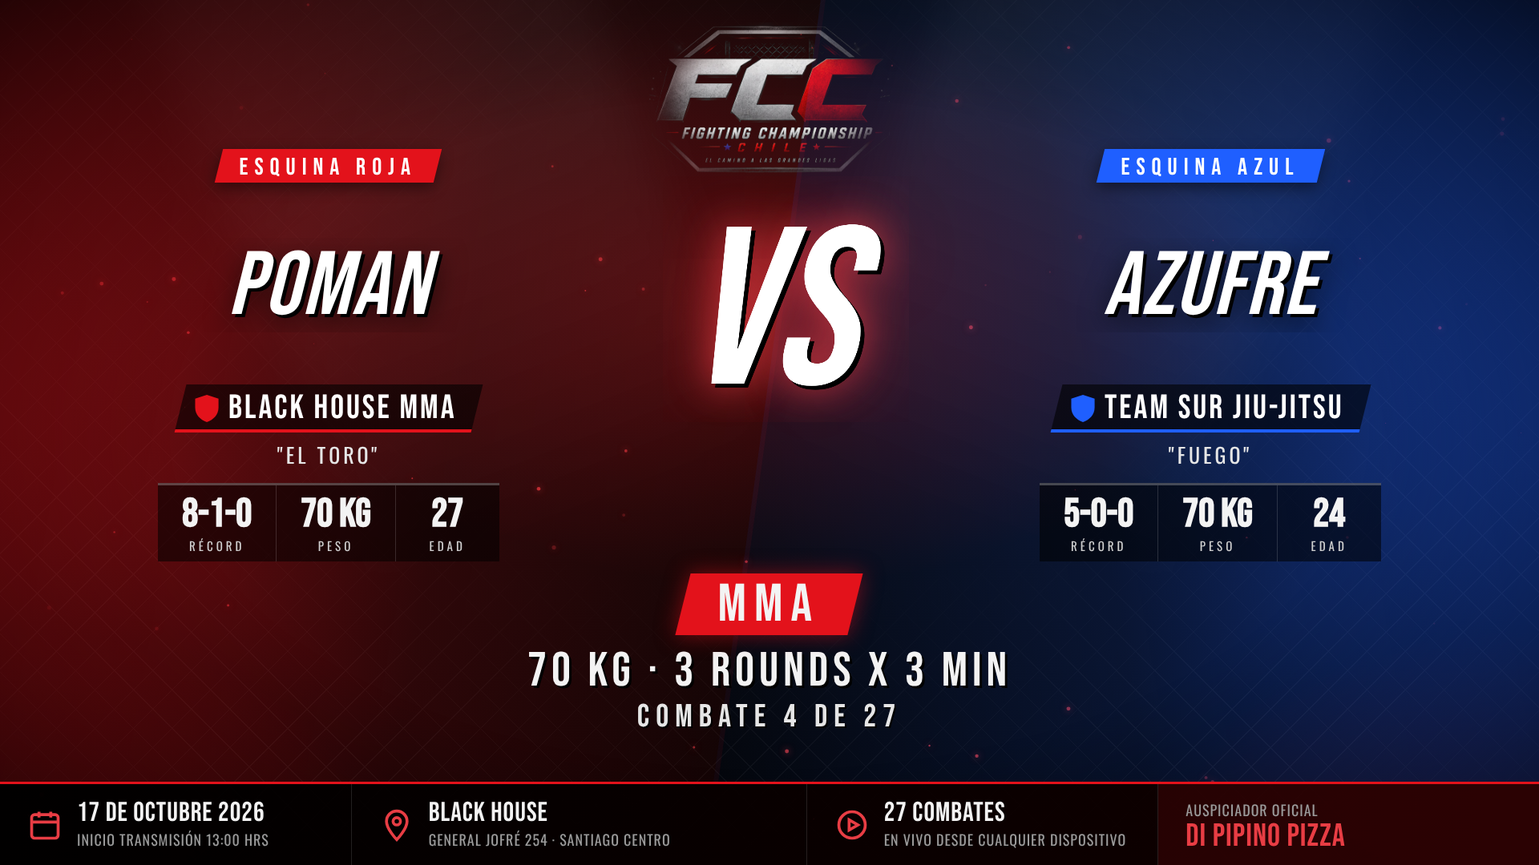
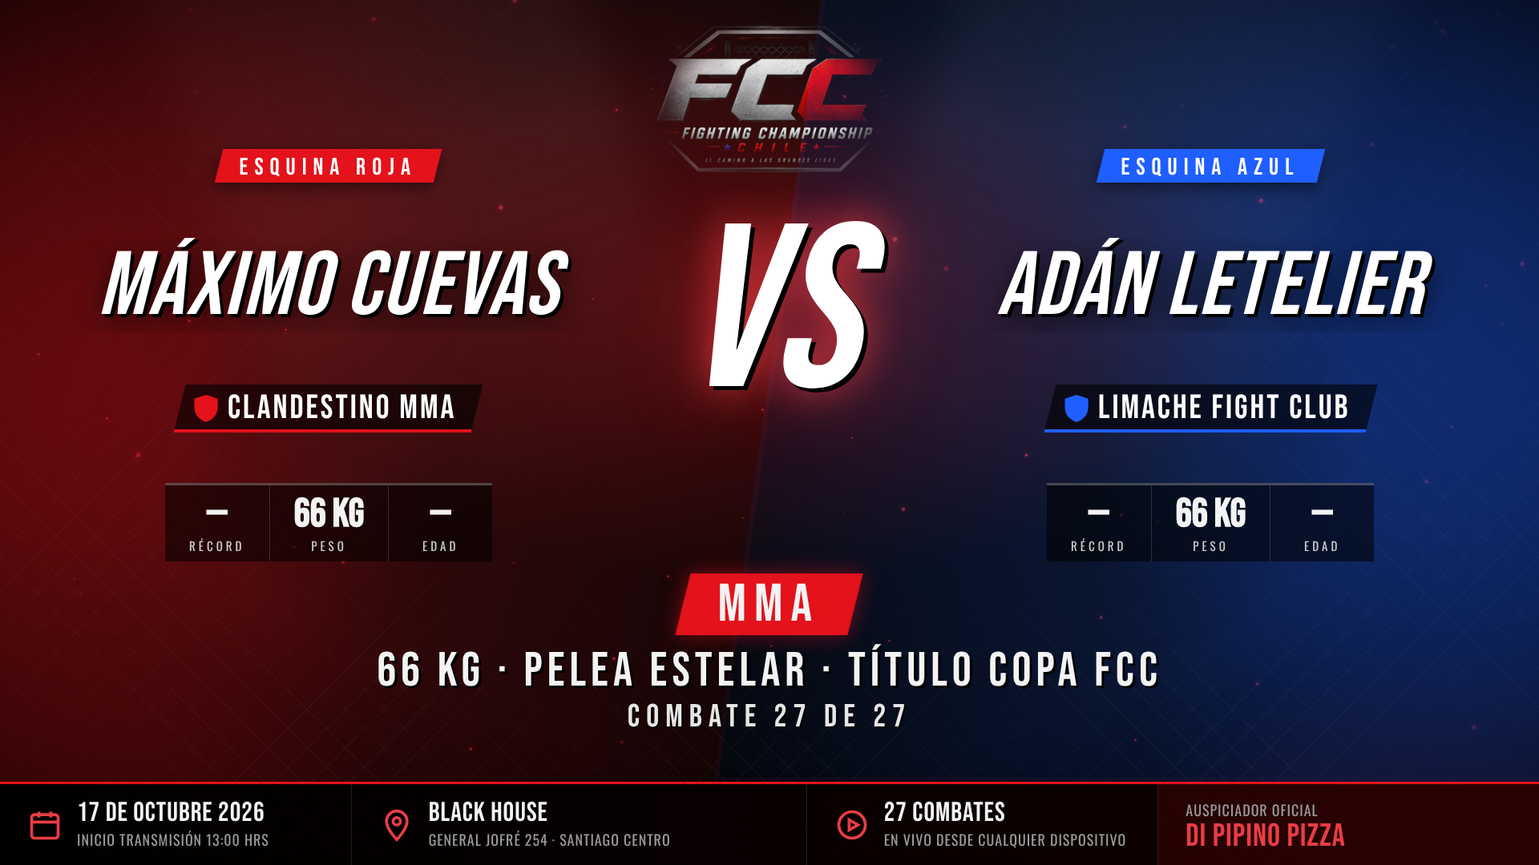
Cartelera oficial FCC 2 precargada (27 combates, gimnasios, horas, formato de rounds)
Claude-Session: https://claude.ai/code/session_01JwhRLW4ML7D7bYQBfu8x2F

diff --git a/CONTROL_EN_VIVO.html b/CONTROL_EN_VIVO.html
@@ -80,6 +80,7 @@ kbd{font-family:ui-monospace,Consolas,monospace;font-size:12px;background:#000;b
 .pv span{color:var(--mute);font-size:14px}
 .cp{height:42px;padding:3px;cursor:pointer}
 .sw-c{display:inline-block;width:14px;height:14px;vertical-align:-2px;margin-right:6px;border:1px solid rgba(255,255,255,.3)}
+.span2{grid-column:span 2}@media (max-width:900px){.span2{grid-column:auto}}
 details summary{cursor:pointer;color:var(--mute);font-size:14px;letter-spacing:1px}
 </style></head>
 <body>
@@ -168,13 +169,13 @@ details summary{cursor:pointer;color:var(--mute);font-size:14px;letter-spacing:1
   </section>
 
   <!-- CARTELERA -->
-  <section class="card">
+  <section class="card span2">
     <h2>CARTELERA <span class="sp"><button id="bprev">◀ ANTERIOR</button><button class="pri" id="bnext">SIGUIENTE ▶</button></span></h2>
-    <div class="fl"><table><thead><tr><th>#</th><th class="lbl-a">ESQUINA ROJA</th><th class="lbl-b">ESQUINA AZUL</th><th>DISC.</th><th></th></tr></thead><tbody id="fl"></tbody></table></div>
+    <div class="fl"><table><thead><tr><th>#</th><th>HORA</th><th class="lbl-a">ESQUINA ROJA</th><th class="lbl-b">ESQUINA AZUL</th><th>DISC.</th><th></th></tr></thead><tbody id="fl"></tbody></table></div>
     <details><summary>Pegar cartelera completa (una pelea por línea)</summary>
       <p class="hint" style="margin:6px 0">Formato: <kbd>Rojo (Gimnasio) vs Azul (Gimnasio) | MMA | 70 kg · 3x3</kbd> (disciplina y categoría opcionales)</p>
       <textarea id="paste" rows="6" placeholder="Juan Pérez vs Diego Soto | MMA | 70 KG · 3 ROUNDS X 3 MIN"></textarea>
-      <div class="row" style="margin-top:6px"><button class="pri" id="bpaste">CARGAR CARTELERA</button><button id="badd">+ AGREGAR FILA</button></div>
+      <div class="row" style="margin-top:6px"><button class="pri" id="bpaste">CARGAR CARTELERA</button><button id="boficial">↺ CARTELERA OFICIAL FCC 2</button><button id="badd">+ AGREGAR FILA</button></div>
     </details>
   </section>
 
@@ -300,7 +301,7 @@ function utf8(s){return unescape(encodeURIComponent(s))}
 var S=ls('fcc2-ctl')||{};
 S.clock=S.clock||{round:1,len:180,rem:180,running:false,at:Date.now()};
 S.fights=S.fights||Array.from({length:27},function(_,i){return{r:'',b:'',d:'MMA',c:''}});
-S.cur=S.cur||0;S.mo=S.mo||{pos:'br',scale:1,op:1,live:true,msgs:true,estado:'EN VIVO',list:['FCC 2 · FIGHTING CHAMPIONSHIP CHILE','BLACK HOUSE · SANTIAGO','AUSPICIA DI PIPINO PIZZA']};S.layout=S.layout||{scale:1,pos:'tc'};if(['tc','bc'].indexOf(S.layout.pos)<0)S.layout.pos='tc';S.theme=S.theme||{main:'#e3121b',a:'#e3121b',b:'#1f5fff'};S.lbl=S.lbl||{a:'ESQUINA ROJA',b:'ESQUINA AZUL'};S.show=S.show||{marcador:true,lt:false};if(S.show.mosca==null)S.show.mosca=true;S.ltp=S.ltp||[];
+S.cur=S.cur||0;if(!S.ltpInit){S.ltp=(S.ltp||[]).concat([{n:'Matiedu',c:'Artista invitado · Show en vivo'}]);S.ltpInit=1}S.mo=S.mo||{pos:'br',scale:1,op:1,live:true,msgs:true,estado:'EN VIVO',list:['FCC 2 · FIGHTING CHAMPIONSHIP CHILE','BLACK HOUSE · SANTIAGO','AUSPICIA DI PIPINO PIZZA']};S.layout=S.layout||{scale:1,pos:'tc'};if(['tc','bc'].indexOf(S.layout.pos)<0)S.layout.pos='tc';S.theme=S.theme||{main:'#e3121b',a:'#e3121b',b:'#1f5fff'};S.lbl=S.lbl||{a:'ESQUINA ROJA',b:'ESQUINA AZUL'};S.show=S.show||{marcador:true,lt:false};if(S.show.mosca==null)S.show.mosca=true;S.ltp=S.ltp||[];
 var FIELDS=['r_nombre','r_gym','b_gym','r_apodo','r_record','r_peso','r_edad','b_nombre','b_apodo','b_record','b_peso','b_edad','disciplina','categoria','numero','total'];
 S.f=S.f||{};
 function save(){ls('fcc2-ctl',S)}
@@ -398,18 +399,22 @@ $('bsend').onclick=function(){readFields();save();push();toast('Enviado al aire'
 $('bswap').onclick=function(){readFields();['nombre','gym','apodo','record','peso','edad'].forEach(function(k){var t=S.f['r_'+k];S.f['r_'+k]=S.f['b_'+k];S.f['b_'+k]=t});loadFields();save();push()};
 
 // ---------- cartelera ----------
-function renderFights(){$('fl').innerHTML=S.fights.map(function(f,i){return '<tr class="'+(i===S.cur?'cur':'')+'"><td class="n">'+(i+1)+'</td><td class="rn"><input data-i="'+i+'" data-k="r" value="'+esc(f.r)+'" placeholder="Rojo"></td><td class="bn"><input data-i="'+i+'" data-k="b" value="'+esc(f.b)+'" placeholder="Azul"></td><td><input data-i="'+i+'" data-k="d" value="'+esc(f.d)+'" style="width:90px"></td><td><button data-load="'+i+'">'+(i===S.cur?'AL AIRE':'CARGAR')+'</button></td></tr>'}).join('')}
+var OFICIAL=[{"h": "13:15", "d": "NOGI", "r": "Ángel Jiménez", "b": "Martín Bahamonde", "c": "83 kg", "x": {"r_gym": "Cohab Centro", "b_gym": "La Familia Jiu Jitsu"}}, {"h": "13:25", "d": "NOGI", "r": "Diego Márquez", "b": "Pedro Montenegro", "c": "70 kg", "x": {"r_gym": "Alfa Team", "b_gym": "Crazy Brothers"}}, {"h": "13:35", "d": "NOGI", "r": "Pablo Bueno", "b": "Alexander Fichelman", "c": "80 kg", "x": {"r_gym": "Alfa Team", "b_gym": "Club Yamaguchi"}}, {"h": "13:45", "d": "NOGI", "r": "Lucas Yáñez", "b": "Matías Herrera", "c": "79 kg", "x": {"r_gym": "Manzur Bros / FCC Team", "b_gym": "Cohab Centro"}}, {"h": "13:55", "d": "NOGI", "r": "Jorge Allende", "b": "Gaspar Palma", "c": "76 kg", "x": {"r_gym": "Cohab Centro", "b_gym": "Alfa Team"}}, {"h": "14:05", "d": "NOGI", "r": "Cristian Miranda", "b": "Ricardo Muñoz", "c": "80 kg", "x": {"r_gym": "Manzur Bros", "b_gym": "Alfa Team"}}, {"h": "14:15", "d": "NOGI", "r": "Isabella Aguirres Díaz", "b": "Gissel Contreras", "c": "59 kg · Femenino infantil", "x": {"r_gym": "Manzur Bros", "b_gym": "Alfa Team"}}, {"h": "14:25", "d": "NOGI", "r": "Lorenzo Flores", "b": "Erik Espinoza", "c": "76 kg", "x": {"r_gym": "Cohab Centro", "b_gym": "Alfa Team"}}, {"h": "14:35", "d": "NOGI", "r": "Mateo Maiale", "b": "Iván Soto", "c": "76 kg", "x": {"r_gym": "Awka", "b_gym": "Alfa Team"}}, {"h": "14:45", "d": "NOGI", "r": "Barry Sandoval", "b": "Sebastián Herrera", "c": "75 kg", "x": {"r_gym": "Resistencia y Resiliencia", "b_gym": "Kacekastan"}}, {"h": "15:15", "d": "BOXEO", "r": "Vicente Valenzuela", "b": "Giovanni Vera", "c": "Peso pesado", "x": {"r_gym": "Alfa Team MMA", "b_gym": "Unity Boxeo"}, "len": 180, "tot": 3}, {"h": "15:28", "d": "BOXEO", "r": "Cristopher Pontigo", "b": "Cristhoper Saravia", "c": "72 kg", "x": {"r_gym": "Club Yamaguchi", "b_gym": "Manzur Bros"}, "len": 180, "tot": 3}, {"h": "15:41", "d": "BOXEO", "r": "Edson Alayo", "b": "Álvaro Astorga", "c": "Hasta 60 kg", "x": {"r_gym": "Team Clandestino MMA", "b_gym": "Manzur Bros"}, "len": 180, "tot": 3}, {"h": "15:54", "d": "BOXEO", "r": "Matías Infantes", "b": "Simon Montenegro", "c": "63 kg", "x": {"r_gym": "FCC Team", "b_gym": "Montenegro Team"}, "len": 180, "tot": 3}, {"h": "16:07", "d": "BOXEO", "r": "Javier Olivares", "b": "Basty Menéndez", "c": "Hasta 61 kg", "x": {"r_gym": "Manzur Bros", "b_gym": "Alfa Team"}, "len": 180, "tot": 3}, {"h": "16:20", "d": "BOXEO", "r": "Lautaro García", "b": "Alessandro Rivera", "c": "70 kg", "x": {"r_gym": "FCC Team", "b_gym": "Club Yamaguchi"}, "len": 180, "tot": 3}, {"h": "16:33", "d": "BOXEO", "r": "Joaquín Valdenegro", "b": "Sebastián González", "c": "57 kg · Élite", "x": {"r_gym": "Club Trueno Boxing", "b_gym": "FCC Team"}, "len": 180, "tot": 3}, {"h": "16:53", "d": "KICKBOXING", "r": "José Luis Schmidt", "b": "José Pretocinio", "c": "91 kg", "x": {"r_gym": "Brotherhood Quilicura", "b_gym": "Black House"}, "len": 120, "tot": 3}, {"h": "17:06", "d": "KICKBOXING", "r": "Sebastián Tapia", "b": "Cristóbal Sanhueza", "c": "Hasta 71 kg", "x": {"r_gym": "Brotherhood Quilicura", "b_gym": "KBE"}, "len": 120, "tot": 3}, {"h": "17:19", "d": "KICKBOXING", "r": "Bruno Canio", "b": "Matías Espinoza", "c": "Peso pesado · Low Kick Amateur", "x": {"r_gym": "Club Kacekastan", "b_gym": "Clandestino MMA"}, "len": 120, "tot": 3}, {"h": "17:32", "d": "KICKBOXING", "r": "Matías Aballay", "b": "Alberto Meza", "c": "Hasta 71 kg · K1", "x": {"r_gym": "Lions Fight Team", "b_gym": "Club Yamaguchi"}, "len": 120, "tot": 3}, {"h": "17:45", "d": "KICKBOXING", "r": "Diego López", "b": "Emiliano Espinoza", "c": "66 kg", "x": {"r_gym": "Alfa Team", "b_gym": "Clandestino MMA"}, "len": 120, "tot": 3}, {"h": "17:58", "d": "KICKBOXING", "r": "Felipe Castro", "b": "Arturo Cadenas", "c": "57 kg · Low Kick Semi Pro", "x": {"r_gym": "Manzur Bros", "b_gym": "KBE"}, "len": 180, "tot": 3}, {"h": "18:31", "d": "MMA", "r": "David Peime", "b": "Héctor García", "c": "57 kg", "x": {"r_gym": "Black House", "b_gym": "Alfa Team MMA"}, "len": 180, "tot": 3}, {"h": "18:44", "d": "MMA", "r": "Marlon Machiste", "b": "Román Araya", "c": "70 kg", "x": {"r_gym": "Training Boxing", "b_gym": "Club Clandestino MMA"}, "len": 180, "tot": 3}, {"h": "18:57", "d": "MMA", "r": "Fernando Benavente", "b": "Marcos Bustamante", "c": "70 kg · Coestelar", "x": {"r_gym": "Nintai Grappling Art", "b_gym": "Alfa Team"}, "len": 180, "tot": 3}, {"h": "19:30", "d": "MMA", "r": "Máximo Cuevas", "b": "Adán Letelier", "c": "66 kg · Pelea estelar · Título Copa FCC", "x": {"r_gym": "Clandestino MMA", "b_gym": "Limache Fight Club"}, "len": 180, "tot": 3}];
+function loadOficial(){S.fights=JSON.parse(JSON.stringify(OFICIAL));S.cur=0;S.f.total='27';$('total').value='27';save();renderFights();loadFight(0)}
+function renderFights(){$('fl').innerHTML=S.fights.map(function(f,i){return '<tr class="'+(i===S.cur?'cur':'')+'"><td class="n">'+(i+1)+'</td><td class="hint" style="width:46px">'+esc(f.h||'')+'</td><td class="rn"><input data-i="'+i+'" data-k="r" value="'+esc(f.r)+'" placeholder="Rojo"></td><td class="bn"><input data-i="'+i+'" data-k="b" value="'+esc(f.b)+'" placeholder="Azul"></td><td><input data-i="'+i+'" data-k="d" value="'+esc(f.d)+'" style="width:110px"></td><td><button data-load="'+i+'">'+(i===S.cur?'AL AIRE':'CARGAR')+'</button></td></tr>'}).join('')}
 function esc(s){return String(s||'').replace(/&/g,'&amp;').replace(/"/g,'&quot;').replace(/</g,'&lt;')}
 $('fl').addEventListener('input',function(e){var t=e.target;if(t.dataset.i==null)return;S.fights[+t.dataset.i][t.dataset.k]=t.value;save()});
 $('fl').addEventListener('click',function(e){var b=e.target.closest('[data-load]');if(b)loadFight(+b.dataset.load)});
 function loadFight(i){if(i<0||i>=S.fights.length)return;var f=S.fights[i];S.cur=i;
  S.f.r_nombre=f.r;S.f.b_nombre=f.b;['apodo','gym','record','peso','edad'].forEach(function(k){S.f['r_'+k]=(f.x&&f.x['r_'+k])||'';S.f['b_'+k]=(f.x&&f.x['b_'+k])||''});
+ var pm=(f.c||'').match(/(hasta\s*)?\d+\s*kg|peso\s+pesado/i);if(pm){if(!S.f.r_peso)S.f.r_peso=U(pm[0]);if(!S.f.b_peso)S.f.b_peso=U(pm[0])}
  if(f.d)S.f.disciplina=U(f.d);S.f.categoria=f.c||S.f.categoria||'';S.f.numero=i+1;
- S.clock={round:1,total:S.clock.total||3,len:S.clock.len,rem:S.clock.len,running:false,at:Date.now()};S.g=undefined;
+ var L=f.len||S.clock.len,T=f.tot||S.clock.total||3;S.clock={round:1,total:T,len:L,rem:L,running:false,at:Date.now()};$('len').value=String(L);$('tot').value=String(T);S.g=undefined;
  loadFields();renderFights();save();push();toast('Combate '+(i+1)+' cargado')}
 // guarda los datos extra del combate actual en la cartelera
 setInterval(function(){var f=S.fights[S.cur];if(!f)return;f.x=f.x||{};['apodo','gym','record','peso','edad'].forEach(function(k){f.x['r_'+k]=S.f['r_'+k];f.x['b_'+k]=S.f['b_'+k]});save()},3000);
 $('bnext').onclick=function(){loadFight(S.cur+1)};$('bprev').onclick=function(){loadFight(S.cur-1)};
+$('boficial').onclick=function(){loadOficial();toast('Cartelera oficial FCC 2 cargada (27 combates)')};
 $('badd').onclick=function(){S.fights.push({r:'',b:'',d:'MMA',c:''});save();renderFights()};
 $('bpaste').onclick=function(){var L=$('paste').value.split(/\n/).map(function(l){return l.trim()}).filter(Boolean);if(!L.length)return;
  S.fights=L.map(function(l){var p=l.split('|').map(function(x){return x.trim()}),GY=function(t){var m=(t||'').match(/^(.*?)\s*\(([^)]*)\)\s*$/);return m?[m[1].trim(),m[2].trim()]:[(t||'').trim(),'']},v=p[0].replace(/\s+/g,' ').split(/\s+(?:vs\.?|v\/s|versus|contra|x)\s+|\s+[-–—]\s+/i);var ra=GY(v[0]),ba=GY(v[1]);return{x:{r_gym:ra[1],b_gym:ba[1]},r:ra[0],b:ba[0],d:U(p[1]||'MMA'),c:p[2]||''}});
@@ -584,5 +589,6 @@ $('rb_speed').value=String(S.rb.speed);$('rb_len').value=String(S.rb.len);$('rb_
 ['rb_speed','rb_len','rb_back'].forEach(function(id){$(id).onchange=function(){S.rb={speed:+$('rb_speed').value,len:+$('rb_len').value,back:$('rb_back').checked};save()}});
 document.addEventListener('keydown',function(e){var t=e.target.tagName;if(t==='INPUT'||t==='TEXTAREA'||t==='SELECT')return;if(e.key==='p'||e.key==='P')$('rb_play').click();else if(e.key==='m'||e.key==='M')$('rb_save').click()});
 renderHL();
+if(!S.fights.some(function(f){return (f.r||'').trim()}))setTimeout(loadOficial,50);
 renderMo();renderTheme();loadFields();renderFights();renderLtp();renderAir();push();runDiag();
 </script></body></html>

diff --git a/fuente/control_live_template.html b/fuente/control_live_template.html
@@ -80,6 +80,7 @@ kbd{font-family:ui-monospace,Consolas,monospace;font-size:12px;background:#000;b
 .pv span{color:var(--mute);font-size:14px}
 .cp{height:42px;padding:3px;cursor:pointer}
 .sw-c{display:inline-block;width:14px;height:14px;vertical-align:-2px;margin-right:6px;border:1px solid rgba(255,255,255,.3)}
+.span2{grid-column:span 2}@media (max-width:900px){.span2{grid-column:auto}}
 details summary{cursor:pointer;color:var(--mute);font-size:14px;letter-spacing:1px}
 </style></head>
 <body>
@@ -168,13 +169,13 @@ details summary{cursor:pointer;color:var(--mute);font-size:14px;letter-spacing:1
   </section>
 
   <!-- CARTELERA -->
-  <section class="card">
+  <section class="card span2">
     <h2>CARTELERA <span class="sp"><button id="bprev">◀ ANTERIOR</button><button class="pri" id="bnext">SIGUIENTE ▶</button></span></h2>
-    <div class="fl"><table><thead><tr><th>#</th><th class="lbl-a">ESQUINA ROJA</th><th class="lbl-b">ESQUINA AZUL</th><th>DISC.</th><th></th></tr></thead><tbody id="fl"></tbody></table></div>
+    <div class="fl"><table><thead><tr><th>#</th><th>HORA</th><th class="lbl-a">ESQUINA ROJA</th><th class="lbl-b">ESQUINA AZUL</th><th>DISC.</th><th></th></tr></thead><tbody id="fl"></tbody></table></div>
     <details><summary>Pegar cartelera completa (una pelea por línea)</summary>
       <p class="hint" style="margin:6px 0">Formato: <kbd>Rojo (Gimnasio) vs Azul (Gimnasio) | MMA | 70 kg · 3x3</kbd> (disciplina y categoría opcionales)</p>
       <textarea id="paste" rows="6" placeholder="Juan Pérez vs Diego Soto | MMA | 70 KG · 3 ROUNDS X 3 MIN"></textarea>
-      <div class="row" style="margin-top:6px"><button class="pri" id="bpaste">CARGAR CARTELERA</button><button id="badd">+ AGREGAR FILA</button></div>
+      <div class="row" style="margin-top:6px"><button class="pri" id="bpaste">CARGAR CARTELERA</button><button id="boficial">↺ CARTELERA OFICIAL FCC 2</button><button id="badd">+ AGREGAR FILA</button></div>
     </details>
   </section>
 
@@ -300,7 +301,7 @@ function utf8(s){return unescape(encodeURIComponent(s))}
 var S=ls('fcc2-ctl')||{};
 S.clock=S.clock||{round:1,len:180,rem:180,running:false,at:Date.now()};
 S.fights=S.fights||Array.from({length:27},function(_,i){return{r:'',b:'',d:'MMA',c:''}});
-S.cur=S.cur||0;S.mo=S.mo||{pos:'br',scale:1,op:1,live:true,msgs:true,estado:'EN VIVO',list:['FCC 2 · FIGHTING CHAMPIONSHIP CHILE','BLACK HOUSE · SANTIAGO','AUSPICIA DI PIPINO PIZZA']};S.layout=S.layout||{scale:1,pos:'tc'};if(['tc','bc'].indexOf(S.layout.pos)<0)S.layout.pos='tc';S.theme=S.theme||{main:'#e3121b',a:'#e3121b',b:'#1f5fff'};S.lbl=S.lbl||{a:'ESQUINA ROJA',b:'ESQUINA AZUL'};S.show=S.show||{marcador:true,lt:false};if(S.show.mosca==null)S.show.mosca=true;S.ltp=S.ltp||[];
+S.cur=S.cur||0;if(!S.ltpInit){S.ltp=(S.ltp||[]).concat([{n:'Matiedu',c:'Artista invitado · Show en vivo'}]);S.ltpInit=1}S.mo=S.mo||{pos:'br',scale:1,op:1,live:true,msgs:true,estado:'EN VIVO',list:['FCC 2 · FIGHTING CHAMPIONSHIP CHILE','BLACK HOUSE · SANTIAGO','AUSPICIA DI PIPINO PIZZA']};S.layout=S.layout||{scale:1,pos:'tc'};if(['tc','bc'].indexOf(S.layout.pos)<0)S.layout.pos='tc';S.theme=S.theme||{main:'#e3121b',a:'#e3121b',b:'#1f5fff'};S.lbl=S.lbl||{a:'ESQUINA ROJA',b:'ESQUINA AZUL'};S.show=S.show||{marcador:true,lt:false};if(S.show.mosca==null)S.show.mosca=true;S.ltp=S.ltp||[];
 var FIELDS=['r_nombre','r_gym','b_gym','r_apodo','r_record','r_peso','r_edad','b_nombre','b_apodo','b_record','b_peso','b_edad','disciplina','categoria','numero','total'];
 S.f=S.f||{};
 function save(){ls('fcc2-ctl',S)}
@@ -398,18 +399,22 @@ $('bsend').onclick=function(){readFields();save();push();toast('Enviado al aire'
 $('bswap').onclick=function(){readFields();['nombre','gym','apodo','record','peso','edad'].forEach(function(k){var t=S.f['r_'+k];S.f['r_'+k]=S.f['b_'+k];S.f['b_'+k]=t});loadFields();save();push()};
 
 // ---------- cartelera ----------
-function renderFights(){$('fl').innerHTML=S.fights.map(function(f,i){return '<tr class="'+(i===S.cur?'cur':'')+'"><td class="n">'+(i+1)+'</td><td class="rn"><input data-i="'+i+'" data-k="r" value="'+esc(f.r)+'" placeholder="Rojo"></td><td class="bn"><input data-i="'+i+'" data-k="b" value="'+esc(f.b)+'" placeholder="Azul"></td><td><input data-i="'+i+'" data-k="d" value="'+esc(f.d)+'" style="width:90px"></td><td><button data-load="'+i+'">'+(i===S.cur?'AL AIRE':'CARGAR')+'</button></td></tr>'}).join('')}
+var OFICIAL=[{"h": "13:15", "d": "NOGI", "r": "Ángel Jiménez", "b": "Martín Bahamonde", "c": "83 kg", "x": {"r_gym": "Cohab Centro", "b_gym": "La Familia Jiu Jitsu"}}, {"h": "13:25", "d": "NOGI", "r": "Diego Márquez", "b": "Pedro Montenegro", "c": "70 kg", "x": {"r_gym": "Alfa Team", "b_gym": "Crazy Brothers"}}, {"h": "13:35", "d": "NOGI", "r": "Pablo Bueno", "b": "Alexander Fichelman", "c": "80 kg", "x": {"r_gym": "Alfa Team", "b_gym": "Club Yamaguchi"}}, {"h": "13:45", "d": "NOGI", "r": "Lucas Yáñez", "b": "Matías Herrera", "c": "79 kg", "x": {"r_gym": "Manzur Bros / FCC Team", "b_gym": "Cohab Centro"}}, {"h": "13:55", "d": "NOGI", "r": "Jorge Allende", "b": "Gaspar Palma", "c": "76 kg", "x": {"r_gym": "Cohab Centro", "b_gym": "Alfa Team"}}, {"h": "14:05", "d": "NOGI", "r": "Cristian Miranda", "b": "Ricardo Muñoz", "c": "80 kg", "x": {"r_gym": "Manzur Bros", "b_gym": "Alfa Team"}}, {"h": "14:15", "d": "NOGI", "r": "Isabella Aguirres Díaz", "b": "Gissel Contreras", "c": "59 kg · Femenino infantil", "x": {"r_gym": "Manzur Bros", "b_gym": "Alfa Team"}}, {"h": "14:25", "d": "NOGI", "r": "Lorenzo Flores", "b": "Erik Espinoza", "c": "76 kg", "x": {"r_gym": "Cohab Centro", "b_gym": "Alfa Team"}}, {"h": "14:35", "d": "NOGI", "r": "Mateo Maiale", "b": "Iván Soto", "c": "76 kg", "x": {"r_gym": "Awka", "b_gym": "Alfa Team"}}, {"h": "14:45", "d": "NOGI", "r": "Barry Sandoval", "b": "Sebastián Herrera", "c": "75 kg", "x": {"r_gym": "Resistencia y Resiliencia", "b_gym": "Kacekastan"}}, {"h": "15:15", "d": "BOXEO", "r": "Vicente Valenzuela", "b": "Giovanni Vera", "c": "Peso pesado", "x": {"r_gym": "Alfa Team MMA", "b_gym": "Unity Boxeo"}, "len": 180, "tot": 3}, {"h": "15:28", "d": "BOXEO", "r": "Cristopher Pontigo", "b": "Cristhoper Saravia", "c": "72 kg", "x": {"r_gym": "Club Yamaguchi", "b_gym": "Manzur Bros"}, "len": 180, "tot": 3}, {"h": "15:41", "d": "BOXEO", "r": "Edson Alayo", "b": "Álvaro Astorga", "c": "Hasta 60 kg", "x": {"r_gym": "Team Clandestino MMA", "b_gym": "Manzur Bros"}, "len": 180, "tot": 3}, {"h": "15:54", "d": "BOXEO", "r": "Matías Infantes", "b": "Simon Montenegro", "c": "63 kg", "x": {"r_gym": "FCC Team", "b_gym": "Montenegro Team"}, "len": 180, "tot": 3}, {"h": "16:07", "d": "BOXEO", "r": "Javier Olivares", "b": "Basty Menéndez", "c": "Hasta 61 kg", "x": {"r_gym": "Manzur Bros", "b_gym": "Alfa Team"}, "len": 180, "tot": 3}, {"h": "16:20", "d": "BOXEO", "r": "Lautaro García", "b": "Alessandro Rivera", "c": "70 kg", "x": {"r_gym": "FCC Team", "b_gym": "Club Yamaguchi"}, "len": 180, "tot": 3}, {"h": "16:33", "d": "BOXEO", "r": "Joaquín Valdenegro", "b": "Sebastián González", "c": "57 kg · Élite", "x": {"r_gym": "Club Trueno Boxing", "b_gym": "FCC Team"}, "len": 180, "tot": 3}, {"h": "16:53", "d": "KICKBOXING", "r": "José Luis Schmidt", "b": "José Pretocinio", "c": "91 kg", "x": {"r_gym": "Brotherhood Quilicura", "b_gym": "Black House"}, "len": 120, "tot": 3}, {"h": "17:06", "d": "KICKBOXING", "r": "Sebastián Tapia", "b": "Cristóbal Sanhueza", "c": "Hasta 71 kg", "x": {"r_gym": "Brotherhood Quilicura", "b_gym": "KBE"}, "len": 120, "tot": 3}, {"h": "17:19", "d": "KICKBOXING", "r": "Bruno Canio", "b": "Matías Espinoza", "c": "Peso pesado · Low Kick Amateur", "x": {"r_gym": "Club Kacekastan", "b_gym": "Clandestino MMA"}, "len": 120, "tot": 3}, {"h": "17:32", "d": "KICKBOXING", "r": "Matías Aballay", "b": "Alberto Meza", "c": "Hasta 71 kg · K1", "x": {"r_gym": "Lions Fight Team", "b_gym": "Club Yamaguchi"}, "len": 120, "tot": 3}, {"h": "17:45", "d": "KICKBOXING", "r": "Diego López", "b": "Emiliano Espinoza", "c": "66 kg", "x": {"r_gym": "Alfa Team", "b_gym": "Clandestino MMA"}, "len": 120, "tot": 3}, {"h": "17:58", "d": "KICKBOXING", "r": "Felipe Castro", "b": "Arturo Cadenas", "c": "57 kg · Low Kick Semi Pro", "x": {"r_gym": "Manzur Bros", "b_gym": "KBE"}, "len": 180, "tot": 3}, {"h": "18:31", "d": "MMA", "r": "David Peime", "b": "Héctor García", "c": "57 kg", "x": {"r_gym": "Black House", "b_gym": "Alfa Team MMA"}, "len": 180, "tot": 3}, {"h": "18:44", "d": "MMA", "r": "Marlon Machiste", "b": "Román Araya", "c": "70 kg", "x": {"r_gym": "Training Boxing", "b_gym": "Club Clandestino MMA"}, "len": 180, "tot": 3}, {"h": "18:57", "d": "MMA", "r": "Fernando Benavente", "b": "Marcos Bustamante", "c": "70 kg · Coestelar", "x": {"r_gym": "Nintai Grappling Art", "b_gym": "Alfa Team"}, "len": 180, "tot": 3}, {"h": "19:30", "d": "MMA", "r": "Máximo Cuevas", "b": "Adán Letelier", "c": "66 kg · Pelea estelar · Título Copa FCC", "x": {"r_gym": "Clandestino MMA", "b_gym": "Limache Fight Club"}, "len": 180, "tot": 3}];
+function loadOficial(){S.fights=JSON.parse(JSON.stringify(OFICIAL));S.cur=0;S.f.total='27';$('total').value='27';save();renderFights();loadFight(0)}
+function renderFights(){$('fl').innerHTML=S.fights.map(function(f,i){return '<tr class="'+(i===S.cur?'cur':'')+'"><td class="n">'+(i+1)+'</td><td class="hint" style="width:46px">'+esc(f.h||'')+'</td><td class="rn"><input data-i="'+i+'" data-k="r" value="'+esc(f.r)+'" placeholder="Rojo"></td><td class="bn"><input data-i="'+i+'" data-k="b" value="'+esc(f.b)+'" placeholder="Azul"></td><td><input data-i="'+i+'" data-k="d" value="'+esc(f.d)+'" style="width:110px"></td><td><button data-load="'+i+'">'+(i===S.cur?'AL AIRE':'CARGAR')+'</button></td></tr>'}).join('')}
 function esc(s){return String(s||'').replace(/&/g,'&amp;').replace(/"/g,'&quot;').replace(/</g,'&lt;')}
 $('fl').addEventListener('input',function(e){var t=e.target;if(t.dataset.i==null)return;S.fights[+t.dataset.i][t.dataset.k]=t.value;save()});
 $('fl').addEventListener('click',function(e){var b=e.target.closest('[data-load]');if(b)loadFight(+b.dataset.load)});
 function loadFight(i){if(i<0||i>=S.fights.length)return;var f=S.fights[i];S.cur=i;
  S.f.r_nombre=f.r;S.f.b_nombre=f.b;['apodo','gym','record','peso','edad'].forEach(function(k){S.f['r_'+k]=(f.x&&f.x['r_'+k])||'';S.f['b_'+k]=(f.x&&f.x['b_'+k])||''});
+ var pm=(f.c||'').match(/(hasta\s*)?\d+\s*kg|peso\s+pesado/i);if(pm){if(!S.f.r_peso)S.f.r_peso=U(pm[0]);if(!S.f.b_peso)S.f.b_peso=U(pm[0])}
  if(f.d)S.f.disciplina=U(f.d);S.f.categoria=f.c||S.f.categoria||'';S.f.numero=i+1;
- S.clock={round:1,total:S.clock.total||3,len:S.clock.len,rem:S.clock.len,running:false,at:Date.now()};S.g=undefined;
+ var L=f.len||S.clock.len,T=f.tot||S.clock.total||3;S.clock={round:1,total:T,len:L,rem:L,running:false,at:Date.now()};$('len').value=String(L);$('tot').value=String(T);S.g=undefined;
  loadFields();renderFights();save();push();toast('Combate '+(i+1)+' cargado')}
 // guarda los datos extra del combate actual en la cartelera
 setInterval(function(){var f=S.fights[S.cur];if(!f)return;f.x=f.x||{};['apodo','gym','record','peso','edad'].forEach(function(k){f.x['r_'+k]=S.f['r_'+k];f.x['b_'+k]=S.f['b_'+k]});save()},3000);
 $('bnext').onclick=function(){loadFight(S.cur+1)};$('bprev').onclick=function(){loadFight(S.cur-1)};
+$('boficial').onclick=function(){loadOficial();toast('Cartelera oficial FCC 2 cargada (27 combates)')};
 $('badd').onclick=function(){S.fights.push({r:'',b:'',d:'MMA',c:''});save();renderFights()};
 $('bpaste').onclick=function(){var L=$('paste').value.split(/\n/).map(function(l){return l.trim()}).filter(Boolean);if(!L.length)return;
  S.fights=L.map(function(l){var p=l.split('|').map(function(x){return x.trim()}),GY=function(t){var m=(t||'').match(/^(.*?)\s*\(([^)]*)\)\s*$/);return m?[m[1].trim(),m[2].trim()]:[(t||'').trim(),'']},v=p[0].replace(/\s+/g,' ').split(/\s+(?:vs\.?|v\/s|versus|contra|x)\s+|\s+[-–—]\s+/i);var ra=GY(v[0]),ba=GY(v[1]);return{x:{r_gym:ra[1],b_gym:ba[1]},r:ra[0],b:ba[0],d:U(p[1]||'MMA'),c:p[2]||''}});
@@ -584,5 +589,6 @@ $('rb_speed').value=String(S.rb.speed);$('rb_len').value=String(S.rb.len);$('rb_
 ['rb_speed','rb_len','rb_back'].forEach(function(id){$(id).onchange=function(){S.rb={speed:+$('rb_speed').value,len:+$('rb_len').value,back:$('rb_back').checked};save()}});
 document.addEventListener('keydown',function(e){var t=e.target.tagName;if(t==='INPUT'||t==='TEXTAREA'||t==='SELECT')return;if(e.key==='p'||e.key==='P')$('rb_play').click();else if(e.key==='m'||e.key==='M')$('rb_save').click()});
 renderHL();
+if(!S.fights.some(function(f){return (f.r||'').trim()}))setTimeout(loadOficial,50);
 renderMo();renderTheme();loadFields();renderFights();renderLtp();renderAir();push();runDiag();
 </script></body></html>
